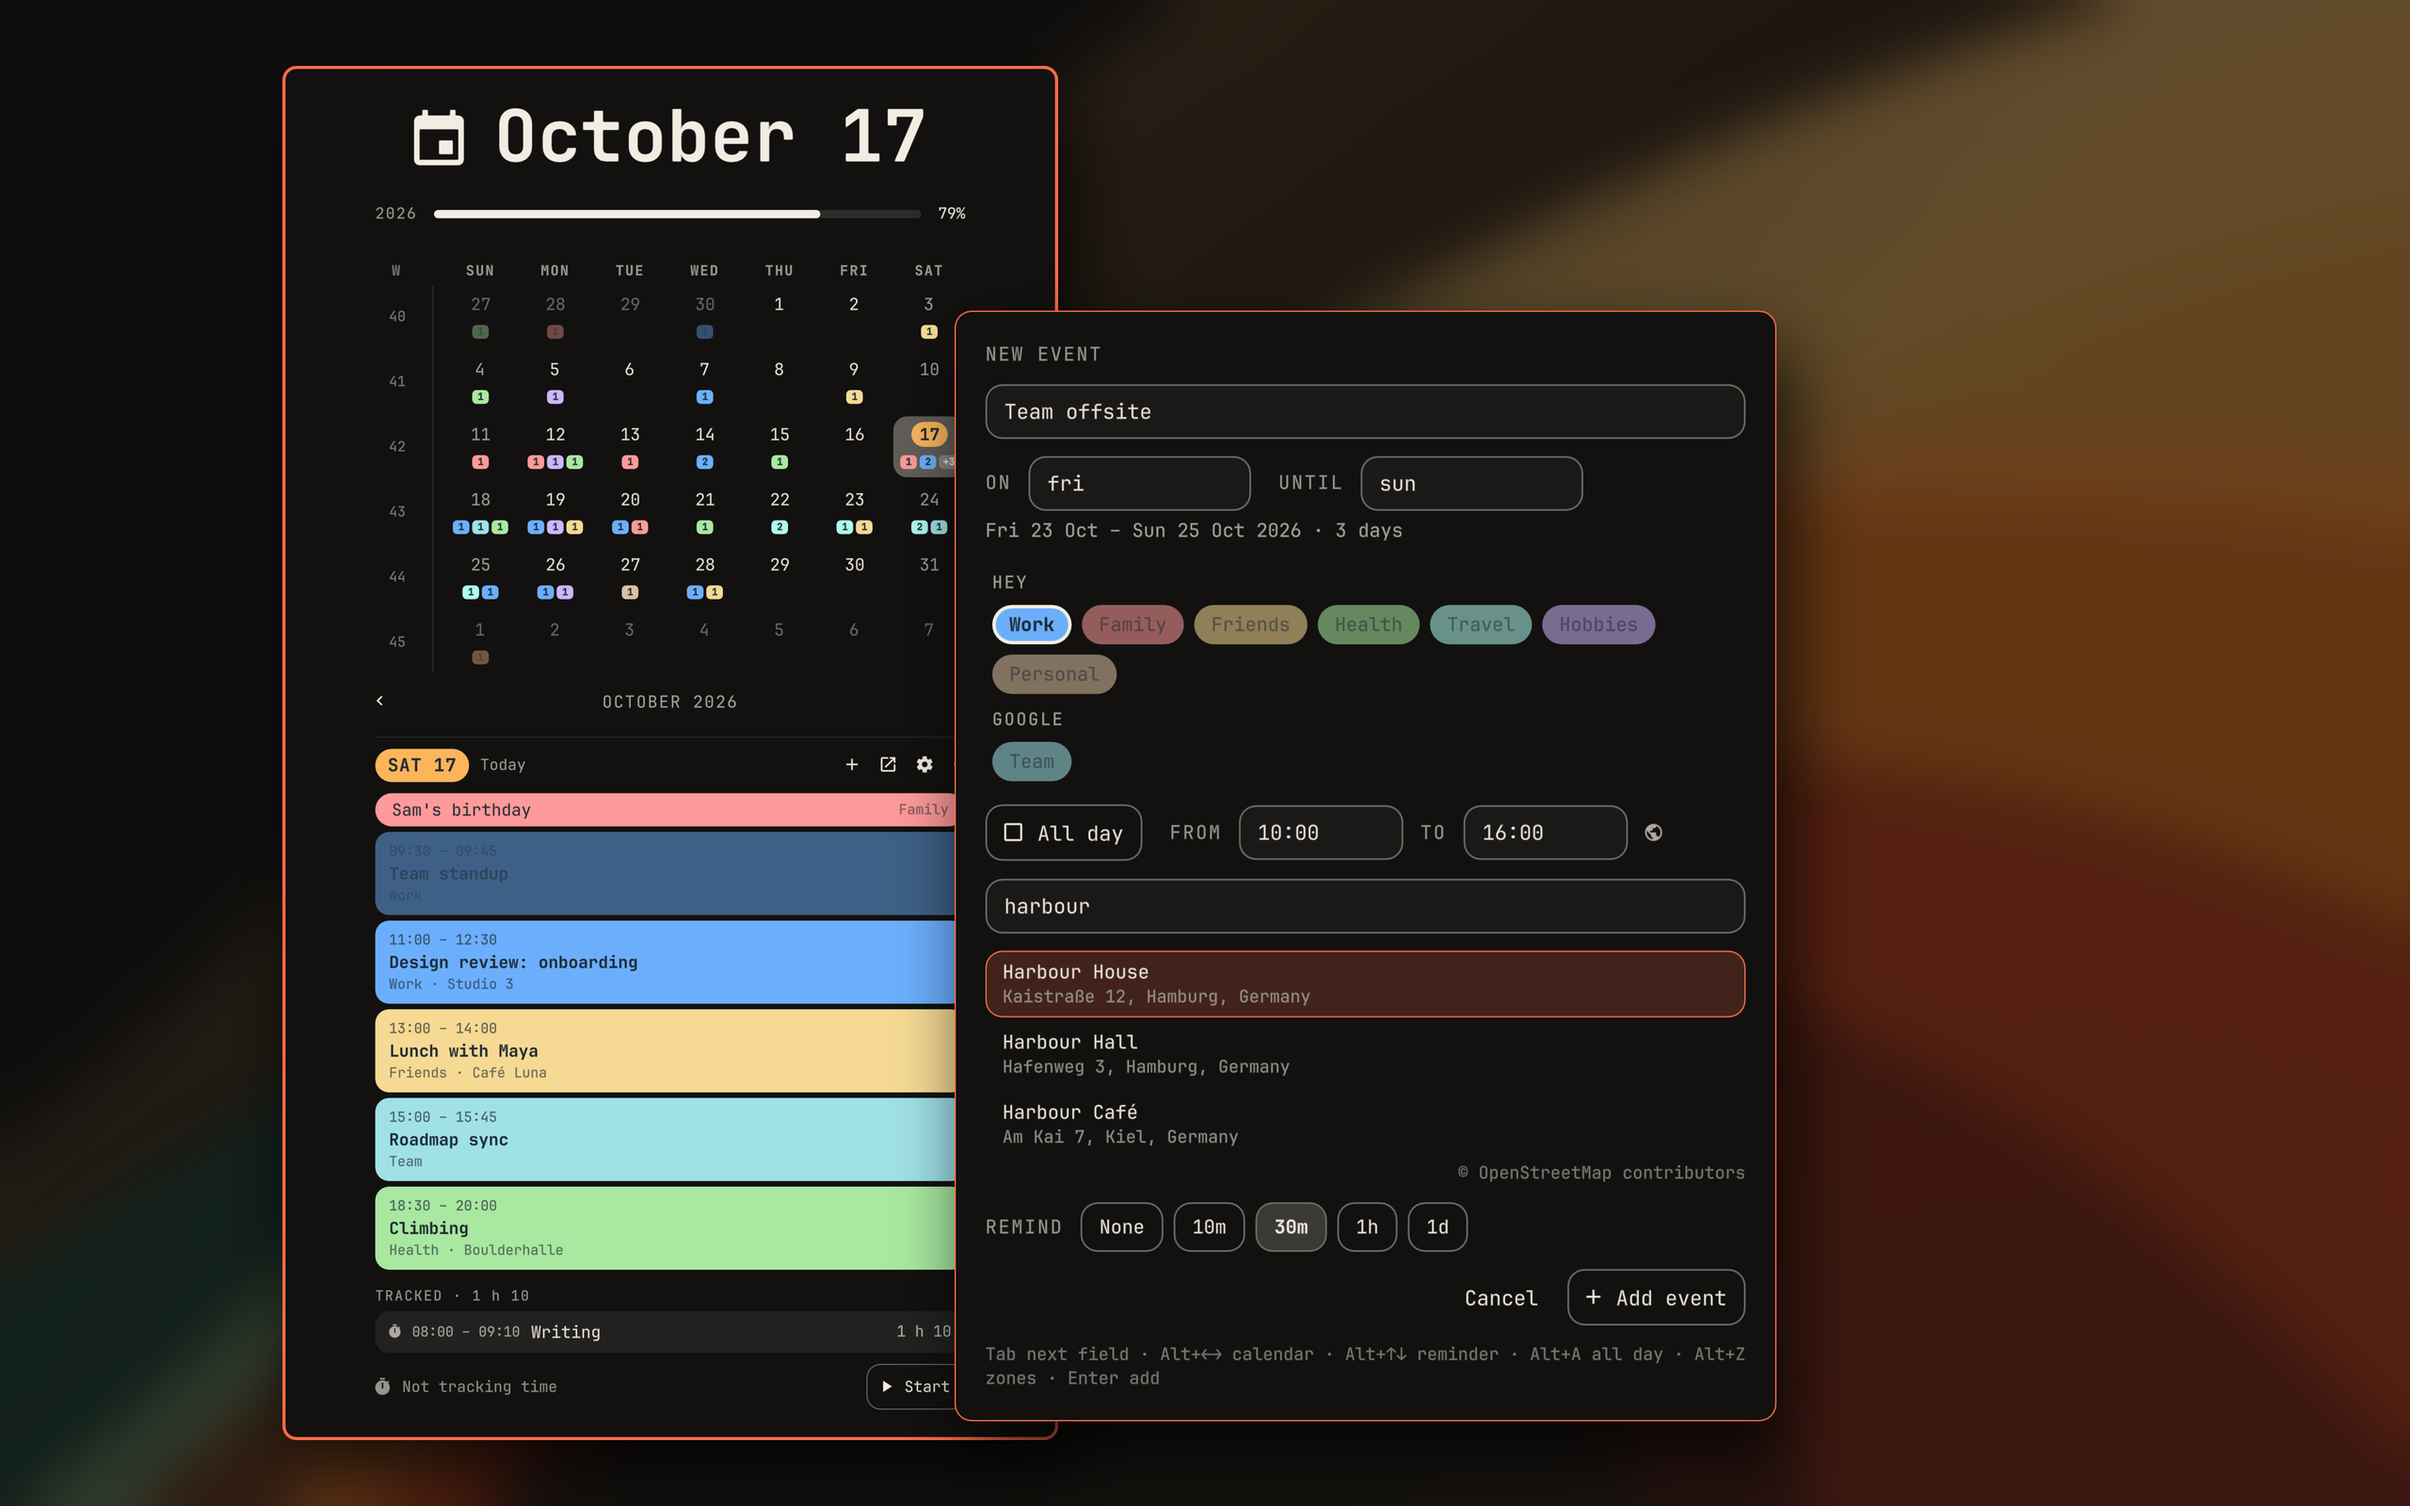
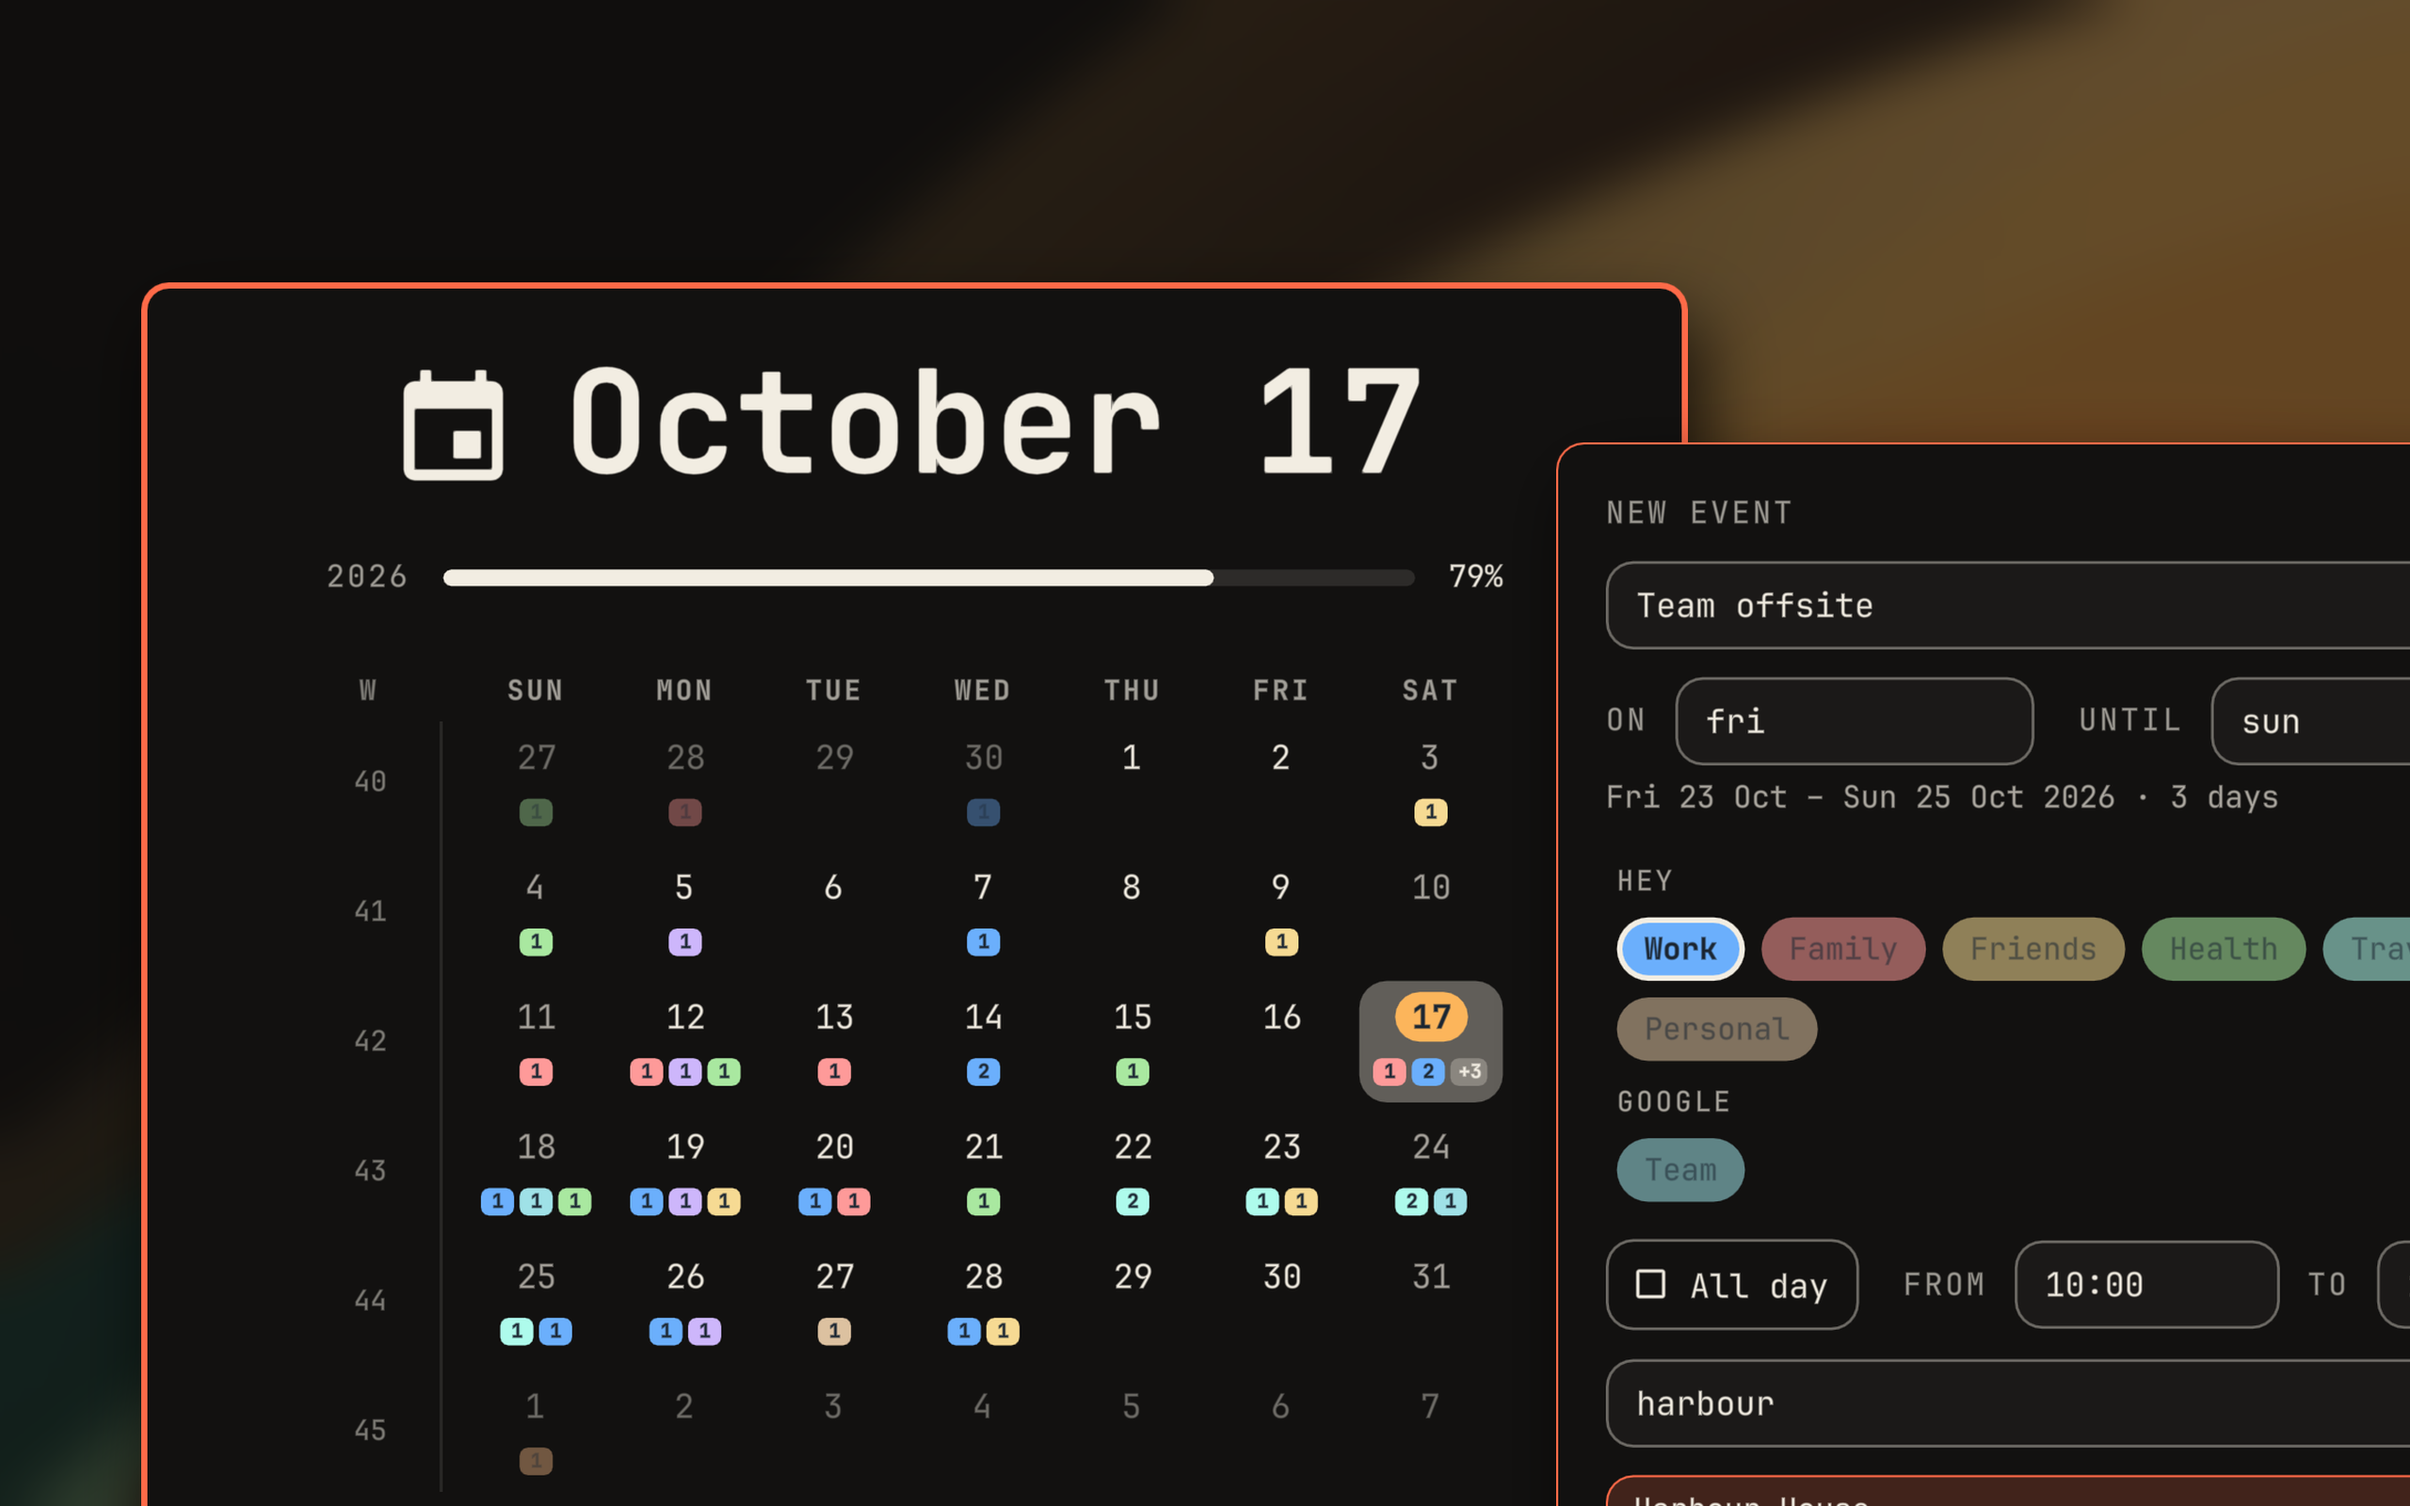
Zoom the marketplace preview in on the panel and the form
The marketplace card shows only a wide strip from the middle of the image,
where the windows were too small to read. They are now shown about 2.5
times larger, running off the edges, with the date and month grid in the
middle so the card and 16:9 crops keep them.

diff --git a/tools/render-preview-card.py b/tools/render-preview-card.py
@@ -3,7 +3,12 @@
 
 Run tools/render-screenshots first. Like hyprmoncfg's, the card is the
 plugin itself rather than words about it: the panel and the quick-add
-form, real renders with sample data, over Omarchy's ristretto wallpaper."""
+form, real renders with sample data, over Omarchy's ristretto wallpaper.
+
+The marketplace card shows only a strip from the middle, about 2.7 times as
+wide as it is tall, and the websites crop to 16:9. So the windows are shown
+large and run off the edges, with the panel's date and month grid in the
+middle, where every crop keeps them."""
 from pathlib import Path
 from PIL import Image, ImageDraw, ImageEnhance, ImageFilter
 
@@ -38,10 +43,10 @@ def place(image, x, y):
     card.alpha_composite(image, (x, y))
 
 
-panel = scaled(shots / "panel.png", 1460)
-form = scaled(shots / "quick-add.png", 1180)
-place(panel, 300, 70)
-place(form, 300 + panel.width - 110, 330)
+panel = scaled(shots / "panel.png", round(Image.open(shots / "panel.png").height * 1.1))
+form = scaled(shots / "quick-add.png", round(Image.open(shots / "quick-add.png").height * 1.1))
+place(panel, 150, 300)
+place(form, 150 + panel.width - 140, 470)
 
 card.convert("RGB").save(repo / "preview.png", optimize=True)
 print("wrote", repo / "preview.png", card.size)
